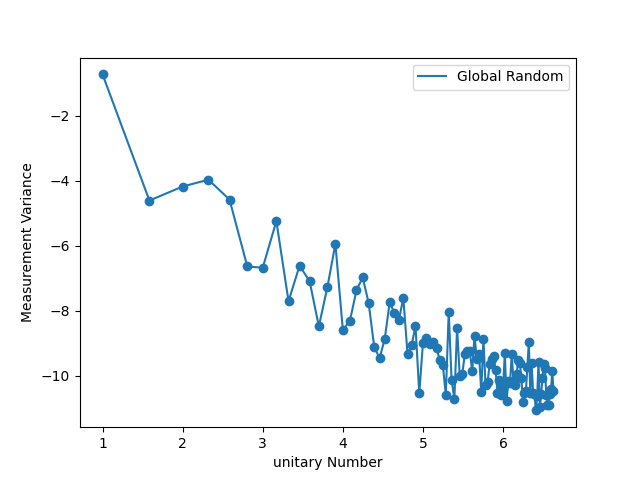
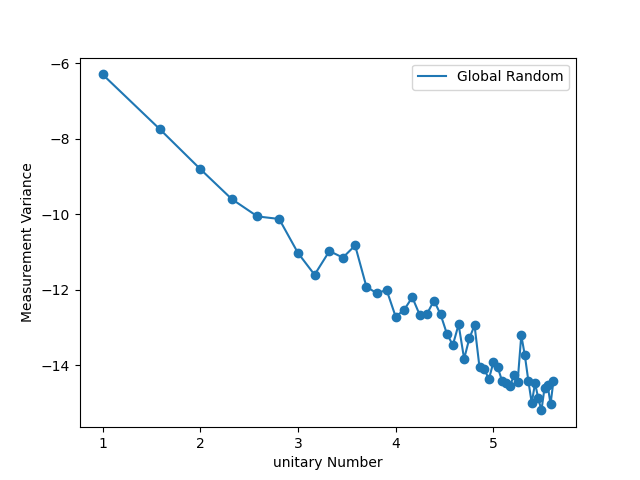
bug fix

diff --git a/M4.py b/M4.py
@@ -28,7 +28,7 @@ def shadow_m4_estimation(rho_hat_lst, na):
     )  # a triple are the same
     sum3 = contract("aaaa", res)  # all four
     res_sum = sum0 - sum1 + 2 * sum2 - 6 * sum3 + sum11
-    return float(res_sum / (m * (m - 1) * (m - 2) * (m - 3)))
+    return float(res_sum.real / (m * (m - 1) * (m - 2) * (m - 3)))
 
 
 def random_m4_estimation(rho, na, NuA, NuB, Nm, device, scheme, N_average, N_iid, qU):
@@ -46,7 +46,7 @@ def random_m4_estimation(rho, na, NuA, NuB, Nm, device, scheme, N_average, N_iid
         UBi_lst = (
             get_u(1, None, na * N_iid * N_average * NuA)
             .to(device)
-            .view(nb, N_iid, N_average, NuA, 2, 2)
+            .view(nb, N_iid, N_average, NuB, 2, 2)
         )
         UA_lst = UAi_lst[0]
         for i in range(1, na):
@@ -66,45 +66,29 @@ def random_m4_estimation(rho, na, NuA, NuB, Nm, device, scheme, N_average, N_iid
         )
         UB_lst = (
             get_u(nb, qU, N_iid * N_average * NuA)
-            .view(N_iid, N_average, NuA, nb ** 2, nb ** 2)
+            .view(N_iid, N_average, NuB, nb ** 2, nb ** 2)
             .to(device)
         )
-    prob_ls = th.empty([N_iid, N_average, NuA, NuB, dim], dtype=th.cfloat)
+    U = contract("orijk,orlmn->oriljmkn", UA_lst, UB_lst).view(
+            [N_iid, N_average, NuA, NuB, dim, dim]
+        )
+    prob_ls = contract("orijab,bc,orijac->orija", U, rho, th.conj(U)).real
     if Nm != -1:
-        U = contract("orijk,orlmn->oriljmkn", UA_lst, UB_lst).view(
-            [N_iid, N_average, NuA, NuB, dim, dim]
-        )
-        meas_pre = (
-            contract("orijab,bc,orijac->orija", U, rho, th.conj(U))
-            .real.view(N_iid * N_average * NuA * NuB, dim)
-            .cumsum(1)
-            .cpu()
-            .numpy()
-        )
+        meas_cdf = prob_ls.view(N_iid * N_average * NuA * NuB, dim).cumsum(1).cpu().numpy()
         randchoice = np.random.rand(Nm, N_iid * N_average * NuA * NuB, 1)
-        choices = np.concatenate(
-            [(randchoice[i] < meas_pre).argmax(axis=1) for i in range(Nm)]
-        )
-        prob_ls = (
-            th.tensor(
-                sp.sparse.coo_matrix(
-                    (
-                        np.ones(N_iid * N_average * NuA * NuB * Nm) / Nm,
-                        (np.zeros(N_iid * N_average * NuA * NuB * Nm), choices),
-                    ),
-                    shape=(1, N_iid * N_average * NuA * NuB * dim),
-                ).toarray()[0],
-                dtype=th.cfloat,
-            )
-            .view(N_iid, N_average, NuA, NuB, dim)
-            .to(device)
-        )
-    else:
-        U = contract("orijk,orlmn->oriljmkn", UA_lst, UB_lst).view(
-            [N_iid, N_average, NuA, NuB, dim, dim]
-        )
-        prob_ls = contract("orijab,bc,orijac->orija", U, rho, th.conj(U))
-    prob_ls = prob_ls.to(device)
+        choices = [(randchoice[i] < meas_cdf).argmax(axis=1)+dim*np.arange(N_iid * N_average * NuA * NuB) for i in range(Nm)]
+        prob_lsi=th.sparse_coo_tensor(
+                    th.tensor([choices[0]]),
+                    th.ones(N_iid * N_average * NuA * NuB),
+                    (N_iid * N_average * NuA * NuB*dim,)
+                )
+        for i in range(1,Nm):
+            prob_lsi+=th.sparse_coo_tensor(
+                    th.tensor([choices[i]]),
+                    th.ones(N_iid * N_average * NuA * NuB) ,
+                    (N_iid * N_average * NuA * NuB*dim,)
+                )
+        prob_ls=prob_lsi.to(device).to_dense().view(N_iid, N_average, NuA, NuB, dim).type(th.cfloat)/Nm
     hm1 = hamming_distance_table(qubit_num, nb, na, scheme).to(device)
     hm2 = hamming_distance_table(qubit_num, 0, nb, scheme).to(device)
     sum0 = contract(
@@ -159,11 +143,13 @@ def shadow_m4_variance(rho, na, m, N_iid, device, scheme, qU):
     rho = rho.to(device)
     r = realignment(rho, na)
     real_value = th.trace(th.mm(th.mm(r, th.conj(r).T), th.mm(r, th.conj(r).T)))
-
+    sum=0
     res = 0
     for _ in range(N_iid):
         predict = shadow_m4_estimation(shadow_estimator(rho, device, scheme, m, qU), na)
+        sum+=predict
         res += (predict - real_value) ** 2
+    print(sum/N_iid)
     return float(res.real / N_iid)
 
 

diff --git a/utils.py b/utils.py
@@ -4,9 +4,22 @@ from qiskit.quantum_info import random_clifford
 import scipy as sp
 import torch as th
 from opt_einsum import contract
+import time
+import multiprocessing as mp
+import matplotlib as mpl
+from scipy.optimize import leastsq
+import numpy as np
+
+mpl.use("Agg")
+import matplotlib.pyplot as plt
 
 hmdict = {}
 
+randomU1 = th.load("./data/random1")
+randomU2 = th.load("./data/random2")
+time_start=time.time()
+proc_lst = []
+has_activate=np.zeros(11)
 
 def hamming_distance(
     a, b, n, lenth, scheme
@@ -121,35 +134,35 @@ def shadow_estimator(rho, device, scheme, m, qU):
     if scheme == "g":
         meas_lst = (
             th.sparse_coo_tensor(
+                th.tensor([np.arange(0, m), result, result]),
                 th.ones(m),
-                th.tensor([th.range(0, m - 1), result, result]),
                 (m, dim, dim),
             )
             .to(device)
-            .to_dense()
+            .to_dense().type(th.cfloat)
         )
         rho_hat_lst = (dim + 1) * contract(
             "oba,obc,ocd->oad", th.conj(U_lst), meas_lst, U_lst
         ) - th.eye(dim, dtype=th.cfloat).to(device)
     else:
         meas_lst0 = th.sparse_coo_tensor(
+            th.tensor([np.arange(0, m), result % 2, result % 2]),
             th.ones(m),
-            th.tensor([th.range(0, m - 1), result % 2, result % 2]),
             (m, 2, 2),
-        ).to_dense()
+        ).to(device).to_dense().type(th.cfloat)
         rho_hat_lst = 3 * contract(
             "oba,obc,ocd->oad", th.conj(U_lst_local[0]), meas_lst0, U_lst_local[0]
         ) - th.eye(2, dtype=th.cfloat).to(device)
         for i in range(1, qubit_num):
             meas_lsti = th.sparse_coo_tensor(
+                th.tensor([np.arange(0, m ), (result >> i) % 2, (result >> i) % 2]),
                 th.ones(m),
-                th.tensor([th.range(0, m - 1), (result >> i) % 2, (result >> i) % 2]),
                 (m, 2, 2),
-            ).to_dense()
+            ).to(device).to_dense().type(th.cfloat)
             rho_hat_lsti = 3 * contract(
                 "oba,obc,ocd->oad", th.conj(U_lst_local[i]), meas_lsti, U_lst_local[i]
             ) - th.eye(2, dtype=th.cfloat).to(device)
-            rho_hat_lst = contract("abc,ade->abdce", rho_hat_lst, rho_hat_lsti).view(
+            rho_hat_lst = contract("abc,ade->abdce",rho_hat_lsti,rho_hat_lst).view(
                 m, 2 ** (i + 1), 2 ** (i + 1)
             )
     return rho_hat_lst
@@ -160,9 +173,6 @@ def gen_u(n, qU):
         qU.put(th.tensor(random_clifford(n).to_matrix(), dtype=th.cfloat))
 
 
-randomU1 = th.load("random1")
-randomU2 = th.load("random2")
-
 
 def get_u(n, qU, num):
     if n == 2:
@@ -170,7 +180,46 @@ def get_u(n, qU, num):
     if n == 1:
         return randomU1[np.random.randint(0, 24, size=num)]
     else:
-        U_lst = th.empty(num, n ** 2, n ** 2)
-        for i in range(num):
-            U_lst[i] = qU[n].get()
+        if has_activate[n]:
+            U_lst = th.empty(num, n ** 2, n ** 2,dtype=th.cfloat)
+            for i in range(num):
+                U_lst[i] = qU[n].get()
+        else:
+            has_activate[n]=1
+            for i in range(10):
+                proc = mp.Process(target=gen_u, args=(n, qU[n]))  # Must assign n
+                proc_lst.append(proc)
+                proc.start()
+            U_lst = th.empty(num, n ** 2, n ** 2,dtype=th.cfloat)
+            for i in range(num):
+                U_lst[i] = qU[n].get()
     return U_lst
+
+
+def kill():
+    print("time is:"+str(time.time() - time_start))
+    for proc in proc_lst:
+        proc.terminate()
+
+def func(p, x):
+    k, b = p
+    return k * x + b
+
+
+def error(p, x, y):
+    return func(p, x) - y
+
+
+def draw(y, x):
+    y_log = np.asarray([math.log(var, 2) for var in y])
+    plt.figure()
+    x_log = np.asarray([math.log(u, 2) for u in x])
+    p0 = [1, 1]
+    print(leastsq(error, p0, args=(x_log, y_log)))
+    plt.scatter(x_log, y_log)
+    plt.plot(x_log, y_log, label=" ")
+
+    plt.xlabel(" ")
+    plt.ylabel(" ")
+    plt.legend()
+    plt.savefig("test.png")

diff --git a/main.py b/main.py
@@ -1,27 +1,16 @@
 from M4 import *
-import multiprocessing as mp
-import time
-import cProfile
-from draw import *
 
 # def runM4var():
 if __name__ == "__main__":
-    proc_lst = []
-    qU = [mp.Queue(100) for i in range(6)]
-    # for i in range(10):
-    #     proc = mp.Process(target=gen_u, args=(2, qU[2]))  # Must assign n
-    #     proc_lst.append(proc)
-    #     proc.start()
-    time1 = time.time()
+    qU = [mp.Queue(100) for i in range(11)]
     reslist = []
     device = th.device("cuda:0")  # "cpu" to use cpu, cuda:0 to use gpu
-    for u in range(2, 100):
-        print(u)
-        res = random_m4_variance(noisy_W(4, 0), 2, u, u, 1, 20, 100, device, "l", qU)
-        # print(res)
-        reslist.append(res / 21)
-    for proc in proc_lst:
-        proc.terminate()
-    print(str(time.time() - time1))
+    print(shadow_m4_variance(noisy_W(2, 0), 1, 100, 100, device, "l", qU))
+    # for u in range(2, 50):
+    #     print(u)
+    #     res = random_m4_variance(noisy_W(4, 0), 2, u, u, 1, 20, 100, device, "g", qU)
+    #     # print(res)
+    #     reslist.append(res / 21)
+    kill()
     th.save(th.tensor(reslist), "./output/random_l_W(4)_Nu=2to100_M=20")
-    draw2(reslist, range(2, 100))
+    draw(reslist, range(2, 50))
